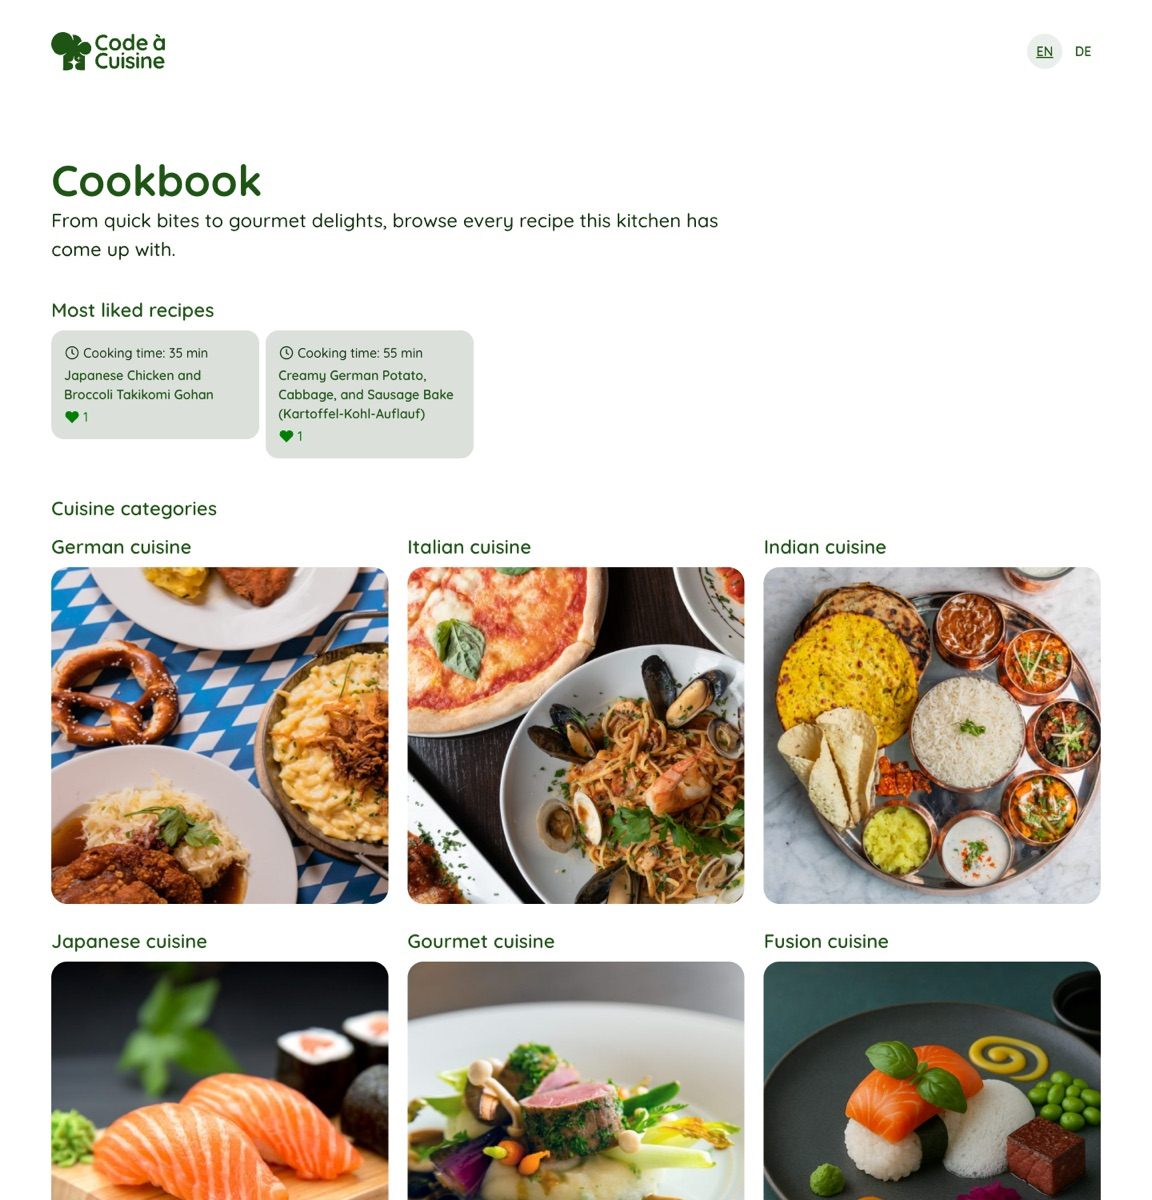
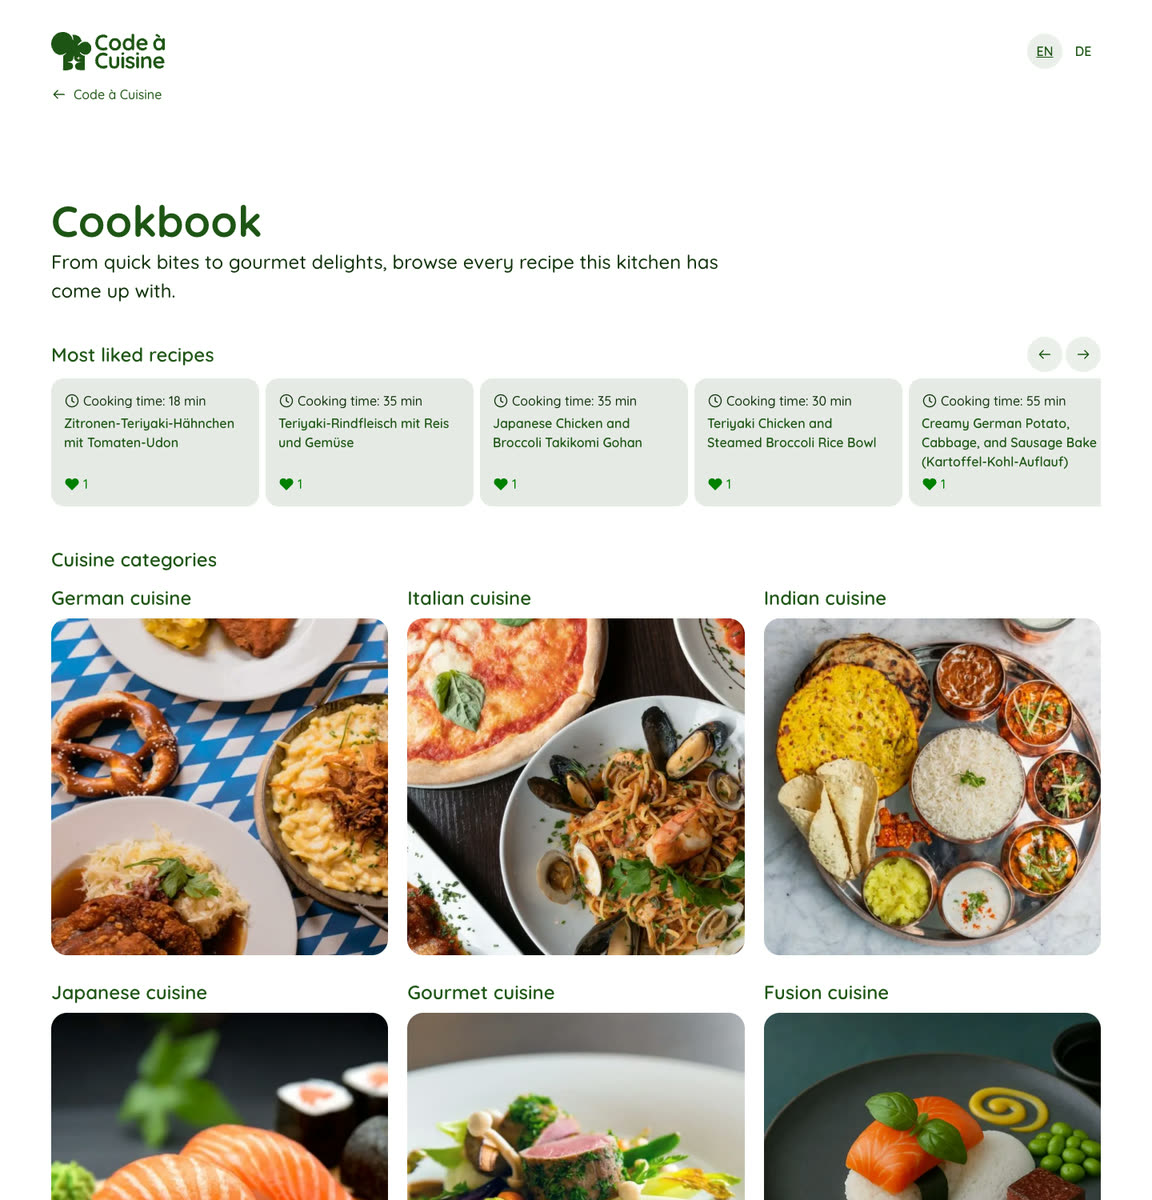
docs: bring the readme and its screenshots up to date

diff --git a/README.md b/README.md
@@ -24,8 +24,8 @@ the library, see [The hosted version](#the-hosted-version).
 3. The workflow asks the model for exactly three recipes, checks the answer and stores it.
 4. You get three suggestions, each with steps split by cook, waiting times and the
    nutritional values per portion and for the whole dish.
-5. Every recipe stays in the library, browsable without an account, and anyone can
-   give it a heart.
+5. Every recipe stays in the library, sorted by cooking style and browsable without an
+   account. Anyone can give it a heart, the browser remembers which ones it gave.
 
 Three recipes per address and day, twelve per day in total. A failed run gives the
 attempt back.
@@ -211,7 +211,8 @@ npm run build
 | `/preferences` | portions, cooks, time, cuisine, diet |
 | `/results` | the three suggestions |
 | `/recipe/:id` | one recipe in full |
-| `/cookbook` | the library, filtered by cooking style |
+| `/cookbook` | the library: the most liked recipes and one tile per cooking style |
+| `/cookbook/:cuisine` | every recipe of one cooking style in the chosen language, 20 per page |
 | `/imprint` | legal notice |
 
 ## Project structure
@@ -220,6 +221,8 @@ npm run build
 src/app/components   screens and reusable parts
 src/app/services     data access and shared logic
 src/app/interfaces   the types shared with the workflow
+src/app/data         texts in both languages and the fixed options
+src/app/pipes        number formatting that follows the language
 src/styles           design tokens and base styles
 n8n/workflows        exported automation workflows
 ```
@@ -263,7 +266,8 @@ The app posts this to the workflow:
 }
 ```
 
-`unit` is `g`, `ml` or `piece`. `cookingTime` is `quick`, `medium` or `complex`. `cuisine`
+The list holds 1 to 20 ingredients, each name up to 40 characters. `unit` is `g`, `ml`
+or `piece`. `cookingTime` is `quick`, `medium` or `complex`. `cuisine`
 is one of german, italian, japanese, indian, gourmet, fusion. `diet` is vegetarian, vegan,
 keto or none. Portions run from 1 to 12, helpers from 1 to 3. `language` is `en` or `de`
 and decides which language the model writes the recipes in.
@@ -283,8 +287,8 @@ when the limit is reached and 502 when the model broke the rules. The types live
 
 ## The workflows
 
-`Generate recipes` takes the request, counts it against the daily limit and asks the
-model. Its answer has a fixed shape (three recipes, at most three extras each), and a code
+`Generate recipes` checks the request again with the same limits as the form, counts it
+against the daily limit and asks the model. Its answer has a fixed shape (three recipes, at most three extras each), and a code
 node checks the one rule a shape cannot hold: every recipe uses at least 70 percent of the
 ingredients. Then the three recipes are stored. Every branch ends in an
 answer: 400 for a bad request, 429 when the limit is used up, 502 when the model broke the
